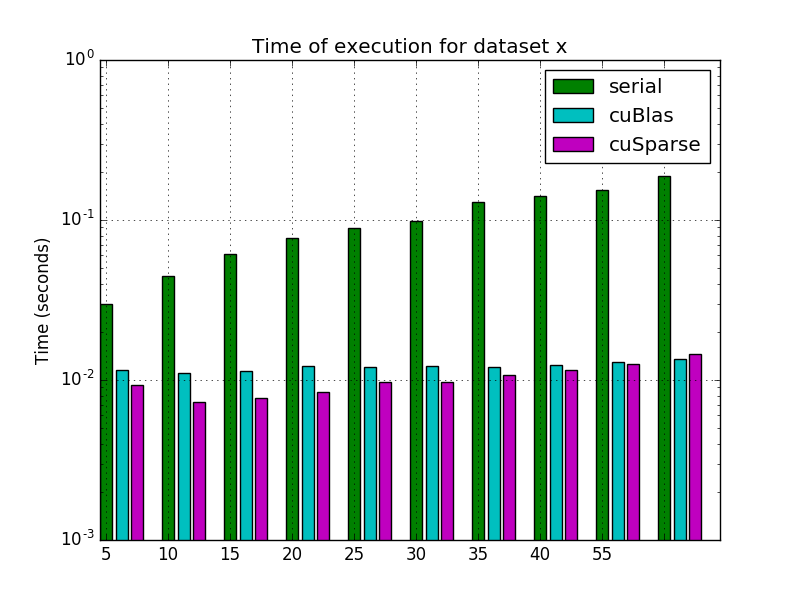
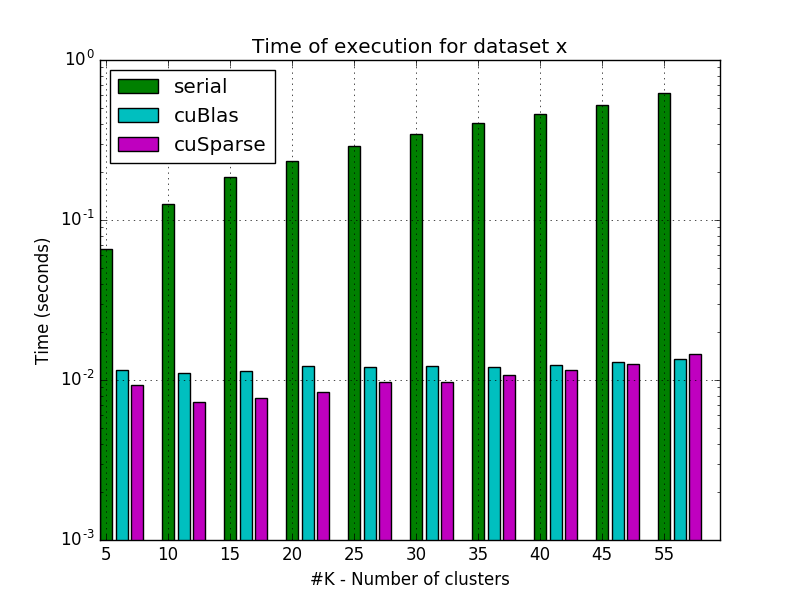
Legend upper-left, some more results

diff --git a/results/plot_graphs.py b/results/plot_graphs.py
@@ -55,7 +55,7 @@ def plot_one(output_name, dataset, files, x_labels):
 	ax.set_yscale('log')
 
 
-	ax.legend((rects1[0], rects2[0], rects3[0]), ('serial', 'cuBlas', 'cuSparse'))
+	ax.legend((rects1[0], rects2[0], rects3[0]), ('serial', 'cuBlas', 'cuSparse'), loc=2)
 	ax.grid(True)
 	plt.savefig(output_name)	
 
@@ -63,13 +63,18 @@ def plot_one(output_name, dataset, files, x_labels):
 
 output_name = "road_dataset.png"
 dataset = 'data/road_spatial_network_dataset/spatial_network.data'
-files = ["titan_x_final.txt"] * 2 + ["scikit_final.out"]
+files = ["titan_x_final.txt"] * 2 + ["konka_scikit_results.out"]
 x_labels = map(str, range(5,46,5) + [55])
 plot_one(output_name, dataset, files, x_labels)
 
 output_name = "nu_minebench.png"
 dataset = 'data/nu_minebench_dataset/kmeans/edge.data'
-files = ["titan_x_final.txt"] * 2 + ["scikit_final.out"]
+files = ["titan_x_final.txt"] * 2 + ["konka_scikit_results.out"]
 x_labels = map(str, range(50,401,50) + [500, 600])
 plot_one(output_name, dataset, files, x_labels)
 
+output_name = "daily_sports.png"
+dataset = 'data/daily_sports_activities/data.data'
+files = ["results_daily.out"] * 2 + ["scikit_final.out"]
+x_labels = map(str, [5,8,10,13,15,18,20,25,30,35])
+plot_one(output_name, dataset, files, x_labels)
